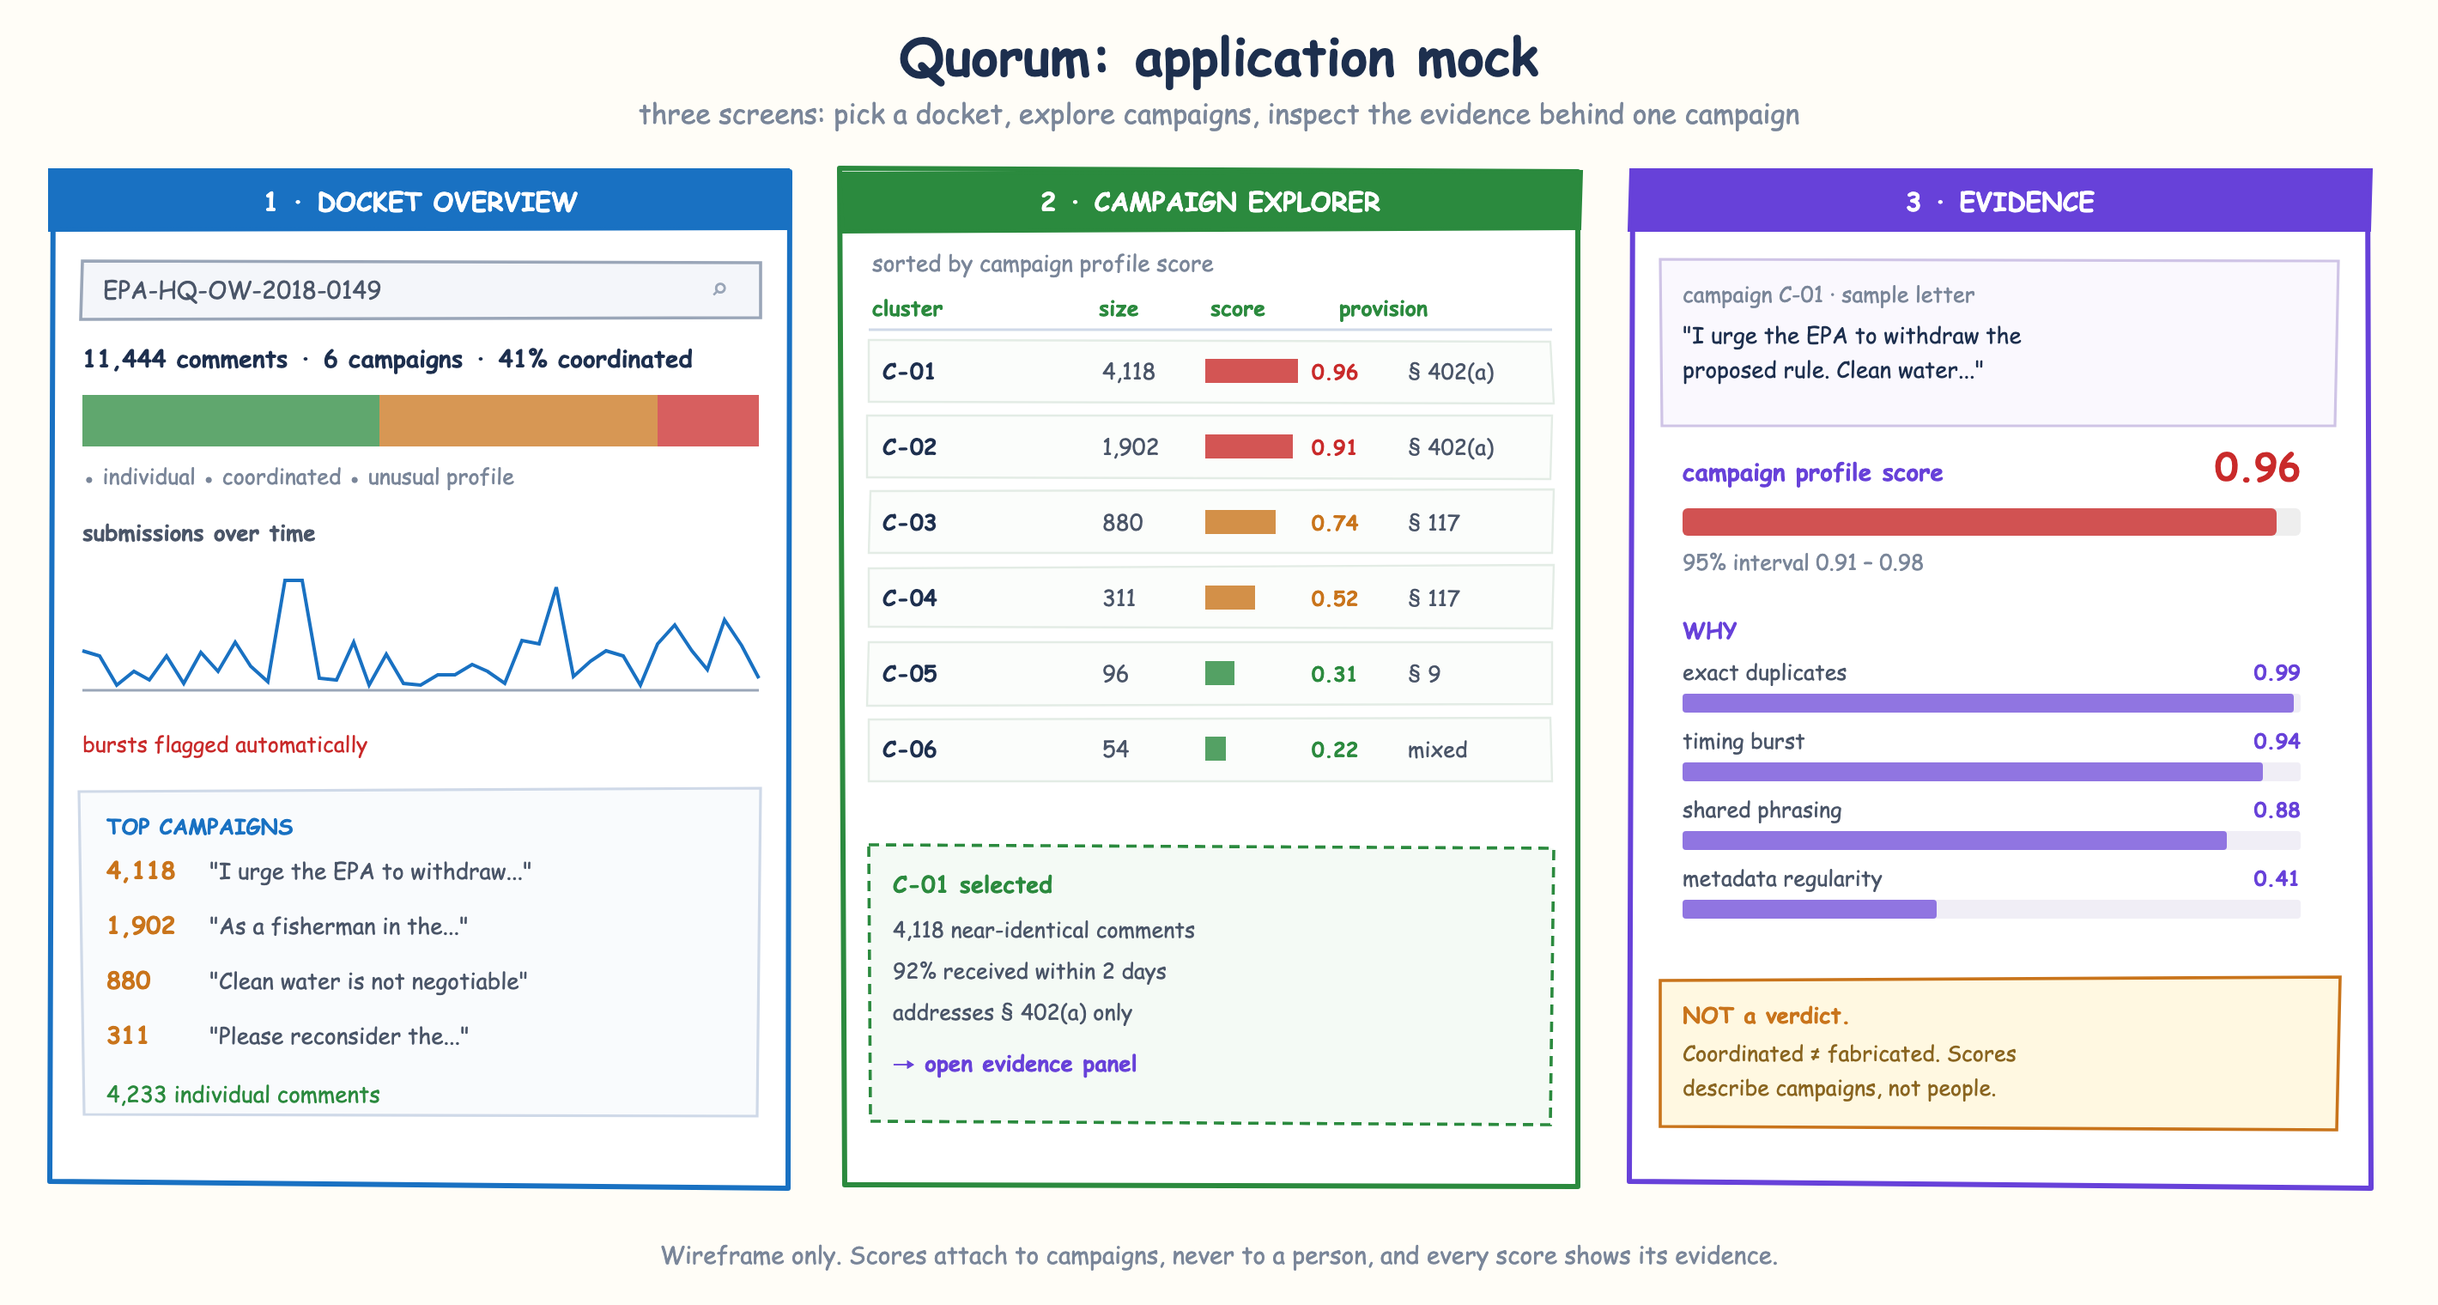
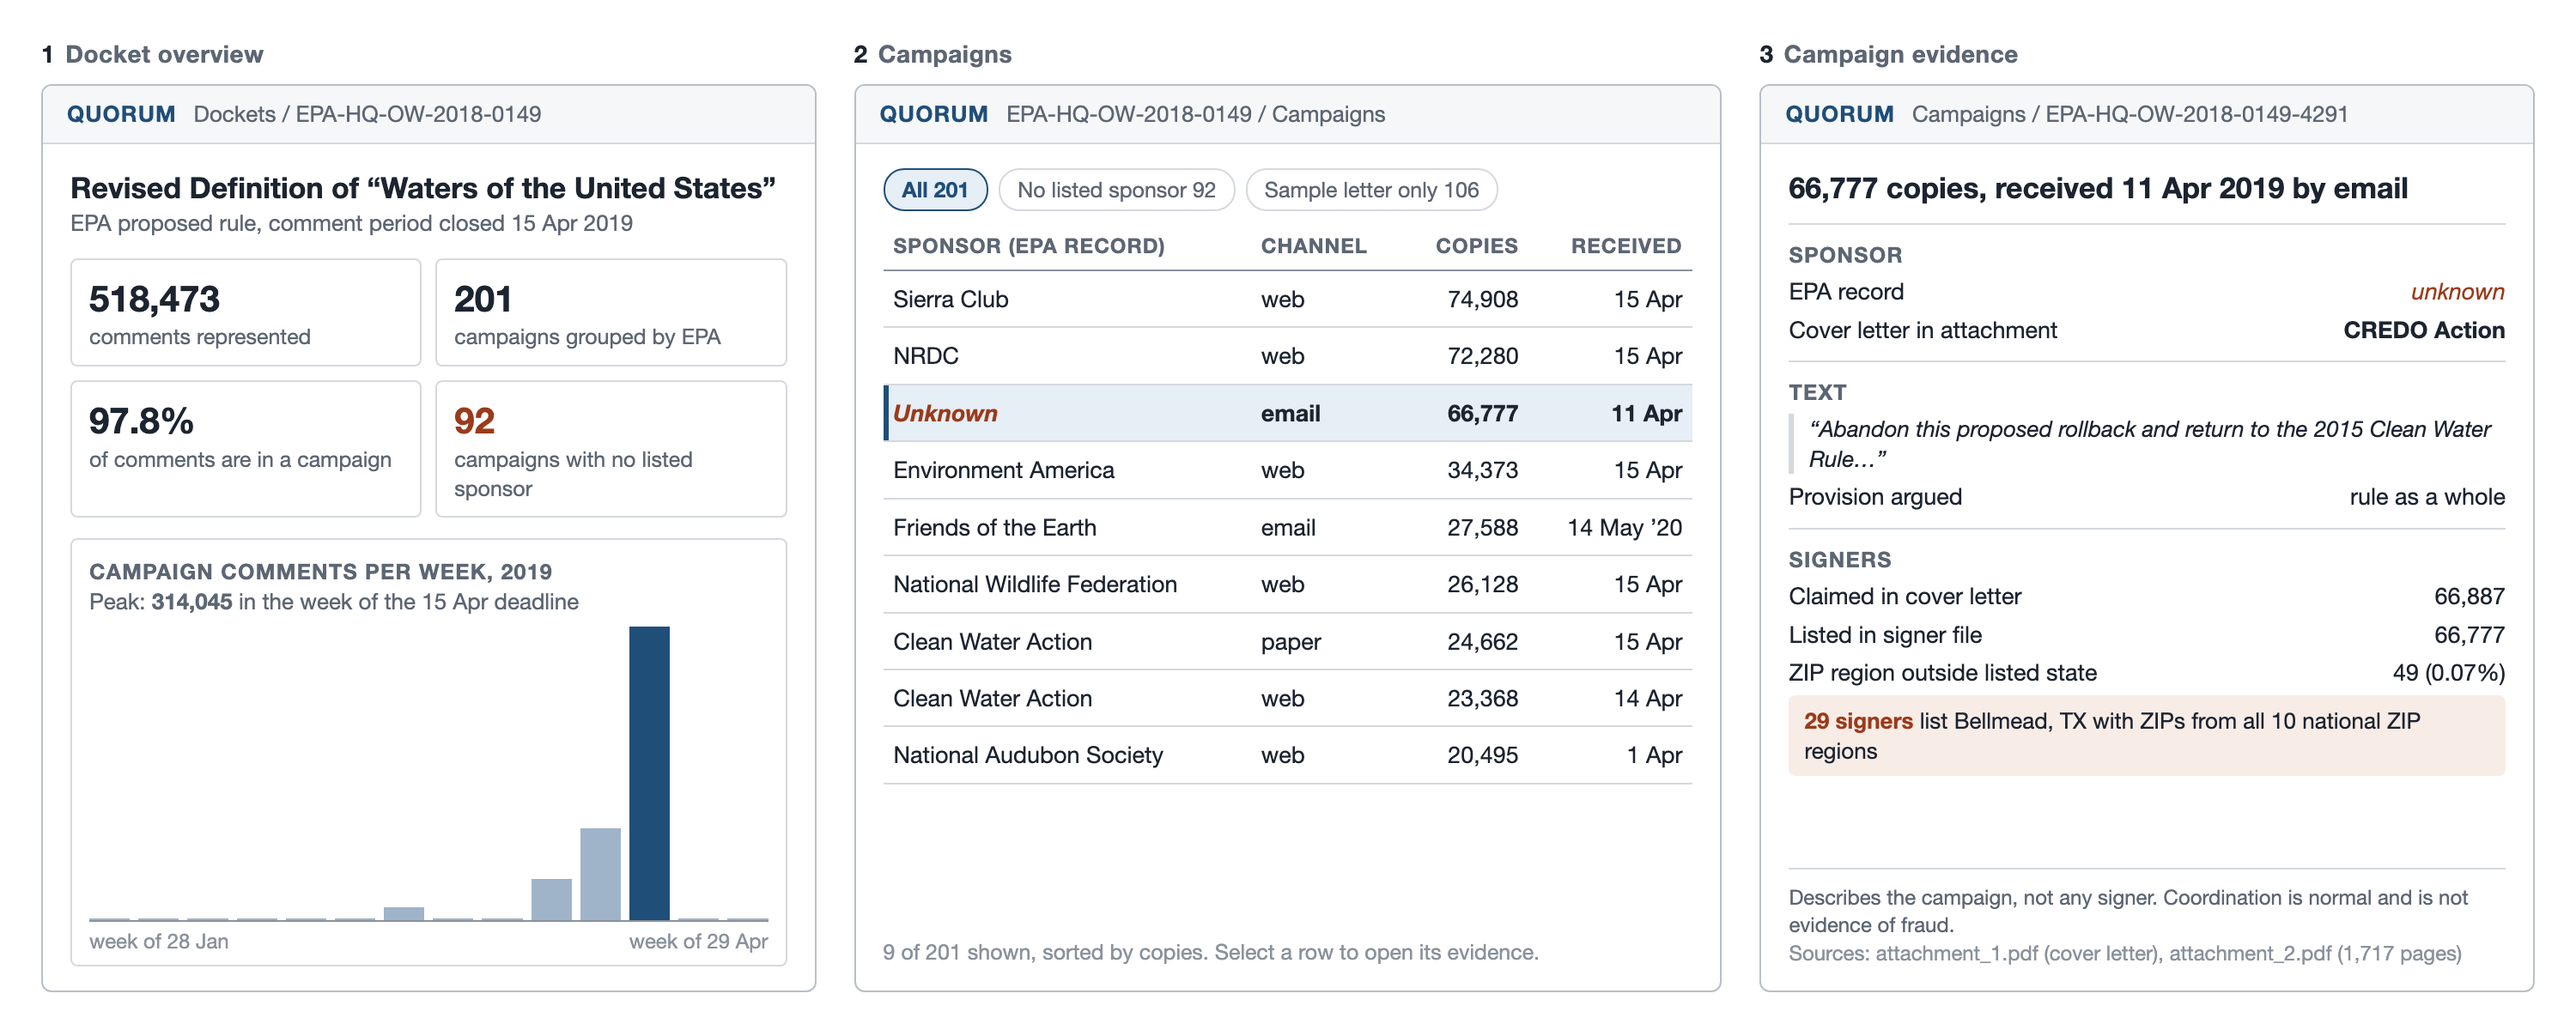
Replace application mock with a wireframe built from real docket records

diff --git a/docs/mock.html b/docs/mock.html
@@ -1,0 +1,159 @@
+<!DOCTYPE html>
+<html lang="en">
+<head>
+<meta charset="utf-8">
+<title>Quorum wireframe</title>
+<!-- Wireframe for the MS1 statement of work. Rendered to docs/mock.png with headless Chrome at 1500x600.
+     Screens 1 and 2 use records from EPA-HQ-OW-2018-0149 retrieved 27 Sep 2026.
+     Screen 3 is campaign EPA-HQ-OW-2018-0149-4291, read from its two PDF attachments. -->
+<style>
+  :root {
+    --ink: #1c2430; --muted: #5d6673; --faint: #8a929c; --line: #d5d9de; --panel: #f6f7f8;
+    --accent: #1f4e79; --accent-soft: #e6eef6; --flag: #9a3b1b; --flag-soft: #f8ece6;
+  }
+  * { box-sizing: border-box; margin: 0; padding: 0; }
+  body { width: 1500px; height: 600px; background: #fff; color: var(--ink);
+         font-family: "Helvetica Neue", Helvetica, Arial, sans-serif; font-size: 15px; line-height: 1.35;
+         padding: 22px 24px; display: flex; gap: 22px; }
+  .screen { flex: 1; display: flex; flex-direction: column; }
+  .cap { font-size: 14px; font-weight: 600; color: var(--muted); letter-spacing: .02em; margin-bottom: 8px; }
+  .cap b { color: var(--ink); margin-right: 6px; }
+  .frame { flex: 1; border: 1px solid #b9bfc6; border-radius: 6px; overflow: hidden; display: flex; flex-direction: column; }
+  .bar { height: 34px; background: var(--panel); border-bottom: 1px solid var(--line); display: flex;
+         align-items: center; padding: 0 14px; gap: 10px; font-size: 13px; color: var(--muted); }
+  .bar .logo { font-weight: 700; color: var(--accent); letter-spacing: .04em; }
+  .body { padding: 14px 16px; flex: 1; display: flex; flex-direction: column; gap: 12px; }
+  h1 { font-size: 17px; font-weight: 600; }
+  .sub { font-size: 13px; color: var(--muted); }
+  .kpis { display: grid; grid-template-columns: 1fr 1fr; gap: 8px; }
+  .kpi { border: 1px solid var(--line); border-radius: 4px; padding: 8px 10px; }
+  .kpi .v { font-size: 21px; font-weight: 600; font-variant-numeric: tabular-nums; }
+  .kpi .l { font-size: 12.5px; color: var(--muted); }
+  .kpi.hl .v { color: var(--flag); }
+  .label { font-size: 12.5px; font-weight: 600; color: var(--muted); text-transform: uppercase; letter-spacing: .05em; }
+  .chart { border: 1px solid var(--line); border-radius: 4px; padding: 10px 10px 6px; flex: 1; display: flex; flex-direction: column; }
+  .bars { flex: 1; display: flex; align-items: flex-end; gap: 5px; border-bottom: 1px solid var(--faint); position: relative; margin-top: 6px; }
+  .bars .b { flex: 1; background: #9fb4c9; min-height: 1px; }
+  .bars .b.peak { background: var(--accent); }
+  .axis { display: flex; justify-content: space-between; font-size: 12px; color: var(--faint); padding-top: 3px; }
+  .note { position: absolute; right: 22px; top: 0; font-size: 12px; color: var(--ink); text-align: right; }
+  .chips { display: flex; gap: 6px; flex-wrap: wrap; }
+  .chip { font-size: 12.5px; border: 1px solid var(--line); border-radius: 12px; padding: 3px 10px; color: var(--muted); }
+  .chip.on { border-color: var(--accent); background: var(--accent-soft); color: var(--accent); font-weight: 600; }
+  table { width: 100%; border-collapse: collapse; font-size: 13.5px; }
+  th { text-align: left; font-size: 12px; font-weight: 600; color: var(--muted); text-transform: uppercase;
+       letter-spacing: .04em; padding: 0 6px 6px; border-bottom: 1px solid var(--faint); }
+  td { padding: 7px 6px; border-bottom: 1px solid var(--line); white-space: nowrap; }
+  td.n, th.n { text-align: right; font-variant-numeric: tabular-nums; }
+  tr.sel td { background: var(--accent-soft); font-weight: 600; }
+  tr.sel td:first-child { box-shadow: inset 3px 0 0 var(--accent); }
+  .unk { color: var(--flag); font-style: italic; }
+  .foot { font-size: 12.5px; color: var(--faint); margin-top: auto; }
+  .sec { border-top: 1px solid var(--line); padding-top: 9px; display: flex; flex-direction: column; gap: 4px; }
+  .sec:first-of-type { border-top: 0; padding-top: 0; }
+  .row { display: flex; justify-content: space-between; gap: 12px; font-size: 13.5px; }
+  .row span:last-child { font-variant-numeric: tabular-nums; text-align: right; }
+  .quote { font-size: 13px; color: var(--ink); border-left: 3px solid var(--line); padding-left: 9px; font-style: italic; }
+  .src { font-size: 12px; color: var(--faint); }
+  .flag { background: var(--flag-soft); border-radius: 4px; padding: 6px 9px; font-size: 13px; }
+  .flag b { color: var(--flag); }
+  .disclaim { font-size: 12px; color: var(--muted); margin-top: auto; border-top: 1px solid var(--line); padding-top: 8px; }
+</style>
+</head>
+<body>
+
+<!-- 1. Docket overview -->
+<section class="screen">
+  <div class="cap"><b>1</b>Docket overview</div>
+  <div class="frame">
+    <div class="bar"><span class="logo">QUORUM</span><span>Dockets / EPA-HQ-OW-2018-0149</span></div>
+    <div class="body">
+      <div>
+        <h1>Revised Definition of &ldquo;Waters of the United States&rdquo;</h1>
+        <div class="sub">EPA proposed rule, comment period closed 15 Apr 2019</div>
+      </div>
+      <div class="kpis">
+        <div class="kpi"><div class="v">518,473</div><div class="l">comments represented</div></div>
+        <div class="kpi"><div class="v">201</div><div class="l">campaigns grouped by EPA</div></div>
+        <div class="kpi"><div class="v">97.8%</div><div class="l">of comments are in a campaign</div></div>
+        <div class="kpi hl"><div class="v">92</div><div class="l">campaigns with no listed sponsor</div></div>
+      </div>
+      <div class="chart">
+        <div class="label">Campaign comments per week, 2019</div>
+        <div class="sub">Peak: <b>314,045</b> in the week of the 15 Apr deadline</div>
+        <div class="bars" id="bars"></div>
+        <div class="axis"><span>week of 28 Jan</span><span>week of 29 Apr</span></div>
+      </div>
+    </div>
+  </div>
+</section>
+
+<!-- 2. Campaigns -->
+<section class="screen" style="flex:1.12">
+  <div class="cap"><b>2</b>Campaigns</div>
+  <div class="frame">
+    <div class="bar"><span class="logo">QUORUM</span><span>EPA-HQ-OW-2018-0149 / Campaigns</span></div>
+    <div class="body">
+      <div class="chips">
+        <span class="chip on">All 201</span>
+        <span class="chip">No listed sponsor 92</span>
+        <span class="chip">Sample letter only 106</span>
+      </div>
+      <table>
+        <tr><th>Sponsor (EPA record)</th><th>Channel</th><th class="n">Copies</th><th class="n">Received</th></tr>
+        <tr><td>Sierra Club</td><td>web</td><td class="n">74,908</td><td class="n">15 Apr</td></tr>
+        <tr><td>NRDC</td><td>web</td><td class="n">72,280</td><td class="n">15 Apr</td></tr>
+        <tr class="sel"><td class="unk">Unknown</td><td>email</td><td class="n">66,777</td><td class="n">11 Apr</td></tr>
+        <tr><td>Environment America</td><td>web</td><td class="n">34,373</td><td class="n">15 Apr</td></tr>
+        <tr><td>Friends of the Earth</td><td>email</td><td class="n">27,588</td><td class="n">14 May &rsquo;20</td></tr>
+        <tr><td>National Wildlife Federation</td><td>web</td><td class="n">26,128</td><td class="n">15 Apr</td></tr>
+        <tr><td>Clean Water Action</td><td>paper</td><td class="n">24,662</td><td class="n">15 Apr</td></tr>
+        <tr><td>Clean Water Action</td><td>web</td><td class="n">23,368</td><td class="n">14 Apr</td></tr>
+        <tr><td>National Audubon Society</td><td>web</td><td class="n">20,495</td><td class="n">1 Apr</td></tr>
+      </table>
+      <div class="foot">9 of 201 shown, sorted by copies. Select a row to open its evidence.</div>
+    </div>
+  </div>
+</section>
+
+<!-- 3. Campaign evidence -->
+<section class="screen">
+  <div class="cap"><b>3</b>Campaign evidence</div>
+  <div class="frame">
+    <div class="bar"><span class="logo">QUORUM</span><span>Campaigns / EPA-HQ-OW-2018-0149-4291</span></div>
+    <div class="body" style="gap:9px">
+      <div>
+        <h1>66,777 copies, received 11 Apr 2019 by email</h1>
+      </div>
+      <div class="sec">
+        <div class="label">Sponsor</div>
+        <div class="row"><span>EPA record</span><span class="unk">unknown</span></div>
+        <div class="row"><span>Cover letter in attachment</span><span><b>CREDO Action</b></span></div>
+      </div>
+      <div class="sec">
+        <div class="label">Text</div>
+        <div class="quote">&ldquo;Abandon this proposed rollback and return to the 2015 Clean Water Rule&hellip;&rdquo;</div>
+        <div class="row"><span>Provision argued</span><span>rule as a whole</span></div>
+      </div>
+      <div class="sec">
+        <div class="label">Signers</div>
+        <div class="row"><span>Claimed in cover letter</span><span>66,887</span></div>
+        <div class="row"><span>Listed in signer file</span><span>66,777</span></div>
+        <div class="row"><span>ZIP region outside listed state</span><span>49 (0.07%)</span></div>
+        <div class="flag"><b>29 signers</b> list Bellmead, TX with ZIPs from all 10 national ZIP regions</div>
+      </div>
+      <div class="disclaim">Describes the campaign, not any signer. Coordination is normal and is not evidence of fraud.
+        <div class="src">Sources: attachment_1.pdf (cover letter), attachment_2.pdf (1,717 pages)</div></div>
+    </div>
+  </div>
+</section>
+
+<script>
+  // Weekly totals of campaign copies by receipt date, weeks starting 28 Jan to 29 Apr 2019.
+  const w = [1559, 0, 3, 598, 131, 543, 13601, 970, 548, 43819, 98175, 314045, 230, 21];
+  const max = Math.max(...w), el = document.getElementById('bars');
+  w.forEach((v, i) => { const d = document.createElement('div'); d.className = 'b'; d.style.height = (100 * v / max) + '%';
+    if (v === max) d.className = 'b peak'; el.appendChild(d); });
+</script>
+</body>
+</html>

diff --git a/milestone1.tex b/milestone1.tex
@@ -5,7 +5,7 @@
 
 \usepackage[T1]{fontenc}
 \usepackage[utf8]{inputenc}
-\usepackage[margin=0.75in]{geometry}
+\usepackage[hmargin=0.75in,vmargin=0.65in]{geometry}
 \usepackage{microtype}
 \usepackage{graphicx}
 \usepackage{enumitem}
@@ -14,7 +14,7 @@
 \usepackage{titlesec}
 
 \titleformat{\section}{\normalsize\bfseries}{}{0pt}{}[{\vspace{1pt}\titlerule}]
-\titlespacing*{\section}{0pt}{8pt}{3pt}
+\titlespacing*{\section}{0pt}{7pt}{3pt}
 \setlength{\parskip}{3pt}
 \setlength{\parindent}{0pt}
 \setlist{itemsep=2pt, topsep=1pt, parsep=0pt, leftmargin=1.1em}
@@ -62,15 +62,15 @@ and evidence of whether real people sent it, without labelling any individual co
   \item \textbf{Relevance:} EPA's campaign records are free grouping labels, signer details let us
         check whether senders look real, and the FCC docket is the only one where fraud was proven.
   \item \textbf{Data quality concerns:} each comment needs its own API call (11.4 hours per key), so
-        we split ingestion across five keys. 106 campaigns attach only a sample letter, so we can count
-        them but not check their senders. Dates have no time of day. Some PDFs may be scans, though
-        all 13 we sampled had a text layer, so we OCR only where needed.
+        we split ingestion across five keys. 106 campaigns attach only a sample letter, so their senders
+        cannot be checked. Dates have no time of day. All 13 PDFs we sampled had a text layer, so OCR
+        is a fallback.
 \end{itemize}
 
 \section{Scope and Objectives}
 
-One Regulations.gov docket end to end, with the FCC docket for validation only. We are not building a
-fraud classifier, and no individual gets a score.
+One Regulations.gov docket end to end, with the FCC docket for validation only. No fraud classifier,
+and no individual gets a score.
 
 \begin{enumerate}[leftmargin=1.4em]
   \item Ingest comments and campaign PDFs into one record per comment.
@@ -92,20 +92,21 @@ every campaign with its evidence on one screen instead of searching by keyword.
 
 \section{Learning Emphasis}
 
-Locality-sensitive hashing, density clustering, RAG with a vector database, and evaluation without
-ground truth.
+Locality-sensitive hashing, density clustering, RAG with a vector database, evaluation without labels.
 
 \section{Application Mock Design}
 
-Three screens: docket overview, campaign explorer, and the evidence for one campaign.
+Filled in with real records from our development docket. We built screen 3 by hand from one
+campaign's PDF attachments; the pipeline will do this for every campaign.
 
 \begin{center}
-\includegraphics[width=0.7\textwidth]{docs/mock.png}
+\includegraphics[width=\textwidth]{docs/mock.png}
 \end{center}
 
 \section{Fun Factor}
 
-EPA lists no sponsor for 92 campaigns on our docket. We want to find out who sent them.
+EPA lists no sponsor for 92 campaigns. The first we opened (66{,}777 comments) was a CREDO Action
+petition. We want to know who sent the other 91.
 
 \section{Limitations and Risks}
 
